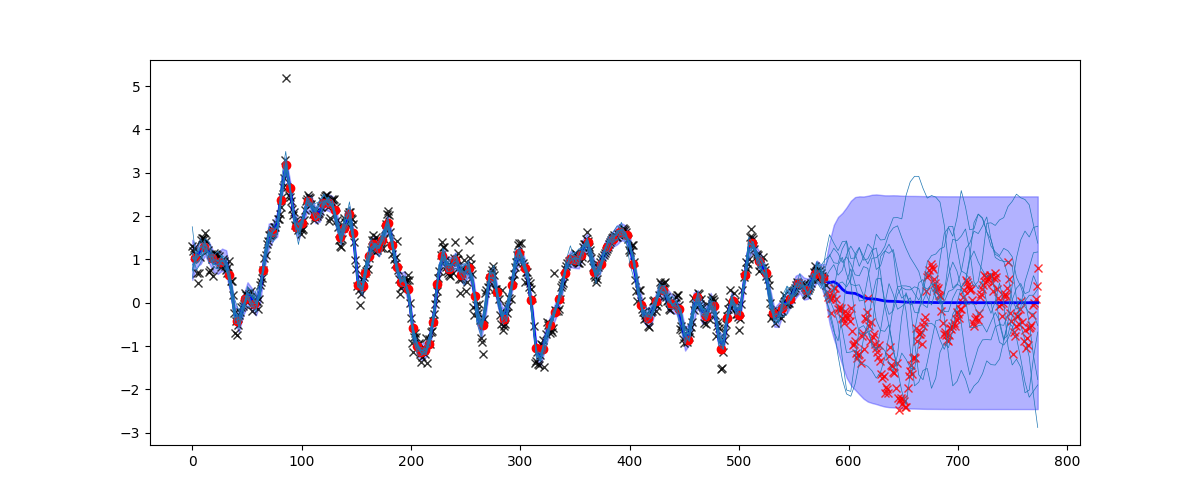
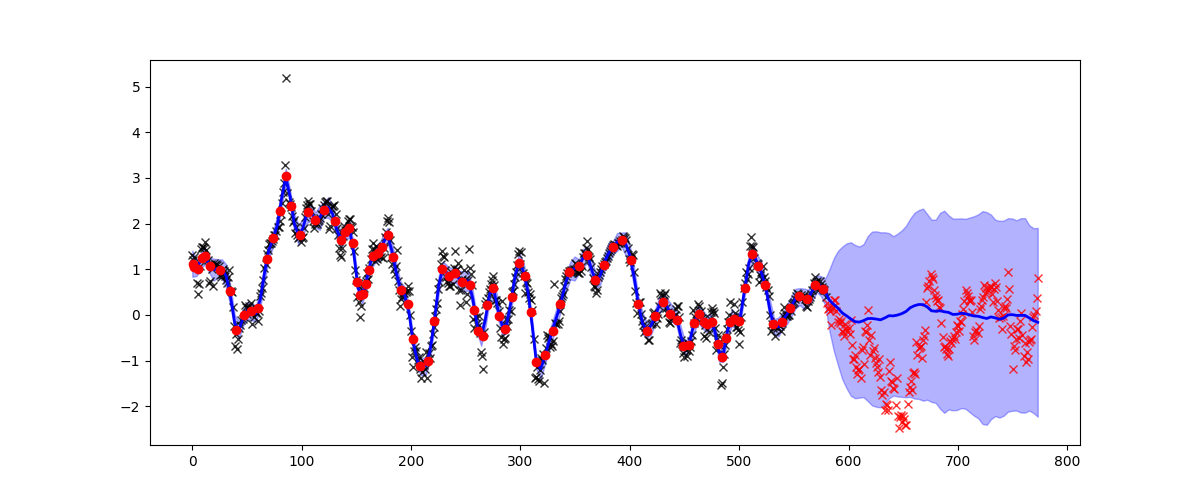
change ploting

diff --git a/experiments/gpflow_gp_time.py b/experiments/gpflow_gp_time.py
@@ -1,7 +1,6 @@
 import gpflow
 import numpy as np
 import matplotlib.pyplot as plt
-import tensorflow_probability as tfp
 
 from experiments.pymc_gp_time import get_data
 
@@ -10,23 +9,24 @@ data_file = 'DATA/processed/dataset.csv'
 
 
 def plot_result(model, ax, cur_x, cur_y,  x_star, y_star, xx):
-    mx, vx = model.predict_f(xx)
-    samples = model.predict_f_samples(xx, 10)
+    samples = model.predict_f_samples(xx, 50)
+    var = samples[:, :, 0].numpy().T.var(axis=1)
+    mn = samples[:, :, 0].numpy().T.mean(axis=1)
     Zopt = model.inducing_variable.Z
     mu, Su = model.predict_f(Zopt, full_cov=True)
     if len(Su.shape) == 3:
         Su = Su[0, :, :]
-        vx = vx[:, 0]
     ax.plot(cur_x, cur_y, 'kx', mew=1, alpha=0.8)
     ax.plot(x_star, y_star, 'rx', mew=1, alpha=0.8)
-    ax.plot(xx, mx, 'b', lw=2)
+    ax.plot(xx, mn, 'b', lw=2)
     ax.fill_between(
         xx[:, 0],
-        mx[:, 0] - 2 * np.sqrt(vx),
-        mx[:, 0] + 2 * np.sqrt(vx),
+        mn - 2 * np.sqrt(var),
+        mn + 2 * np.sqrt(var),
         color='b', alpha=0.3)
     ax.plot(Zopt.numpy(), mu.numpy(), 'ro', mew=1)
-    plt.plot(xx, samples[:, :, 0].numpy().T, "C0", linewidth=0.5)
+    #plt.plot(xx, samples[:, :, 0].numpy().T, "C0", linewidth=0.5)
+    return mu, Su, Zopt
 
 
 def main(M=30):
@@ -45,11 +45,11 @@ def main(M=30):
     mt = gpflow.kernels.Matern32(variance=1, lengthscales=24)
     # cov = mt + sum([mt * gpflow.kernels.Periodic(gpflow.kernels.SquaredExponential(lengthscales=i*1.5), period=i)
     #                 for i in periods])
-    pk = gpflow.kernels.Periodic(gpflow.kernels.SquaredExponential(lengthscales=24*1.5), period=12)
+    pk = gpflow.kernels.Periodic(gpflow.kernels.SquaredExponential(lengthscales=24*1.5), period=24)
     cov = mt * pk
     model = gpflow.models.sgpr.SGPR((X, y), cov, Z)
     # model.kernel.kernels[1].period.prior = tfp.distributions.Normal(24., 1.)
-    # gpflow.set_trainable(model.kernel, False)
+    gpflow.set_trainable(model.kernel, False)
     gpflow.utilities.print_summary(model)
     # print(model.kernel.kernels[1].trainable_variables)
     optimizer = gpflow.optimizers.Scipy()

diff --git a/experiments/gpflow_spatial.py b/experiments/gpflow_spatial.py
@@ -1,4 +1,4 @@
-import gpflow
+Import gpflow
 import numpy as np
 import matplotlib.pyplot as plt
 
@@ -30,9 +30,6 @@ def main(M=100):
 
     z = x[np.random.permutation(x.shape[0])[0:M], :]
 
-    print(x.shape, y.shape, z.shape)
-    print(x)
-    print(y)
     model = gpflow.models.sgpr.SGPR((x, y), gpflow.kernels.Matern32(variance=1, lengthscales=0.1), z)
     gpflow.set_trainable(model.kernel, False)
     gpflow.utilities.print_summary(model)
